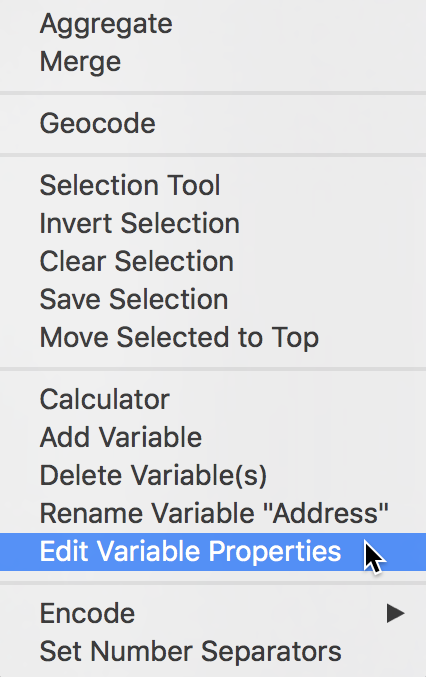
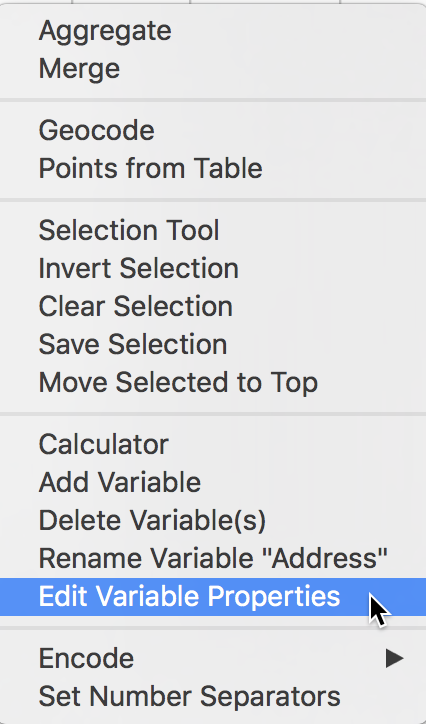
updated merge menu screen shots, added points from table as table option in narrative + screen shot

diff --git a/workbook/1_datascience/lab1.html b/workbook/1_datascience/lab1.html
@@ -613,11 +613,18 @@ Save Toolbar Icon
 <p>So far, we have only dealt with a regular table, without taking advantage of any spatial features. However, the table contains fields with coordinates and GeoDa can turn these into an explicit spatial points layer that can be saved in a range of GIS formats. In the process of illustrating this, we will also tackle some typical data munging issues that result from data entry or other data quality problems. For example, in the current data set, there are two observations that have an entry of <strong>0</strong> for the community area. Since we will be aggregating the points by community area, it is critical that we have that information, or else we need to remove those observations. Luckily, in our case, there is a fairly straightforward solution, taking advantage of GeoDa’s spatial selection feature.</p>
 <div id="creating-a-point-layer-from-coordinates-in-a-table" class="section level3 unnumbered">
 <h3>Creating a point layer from coordinates in a table</h3>
-<p>In GeoDa, it is straightforward to create a GIS point layer from tabular data that contain coordinate information. It is a two step process. After you invoke the function from the main menu, as <strong>Tools &gt; Shape &gt; Points from Table</strong>, a dialog appears to let you specify the X and Y coordinates.</p>
+<p>In GeoDa, it is straightforward to create a GIS point layer from tabular data that contain coordinate information. It is a two step process. After you invoke the function, a dialog appears to let you specify the X and Y coordinates. The <strong>Points from Table</strong> is one of the options in the Table menu.</p>
 <div class="figure" style="text-align: center">
-<img src="pics/7_62_tools_points.png" alt="Points from Table" width="30%" />
+<img src="pics/7_points_from_table.png" alt="Points from Table (Table menu)" width="20%" />
 <p class="caption">
-Points from Table
+Points from Table (Table menu)
+</p>
+</div>
+<p>In addition, it can also be started from the main menu, as <strong>Tools &gt; Shape &gt; Points from Table</strong>.</p>
+<div class="figure" style="text-align: center">
+<img src="pics/7_62_tools_points.png" alt="Points from Table (Tools menu)" width="30%" />
+<p class="caption">
+Points from Table (Tools menu)
 </p>
 </div>
 <p>In our example, the table contains two sets of coordinates, <strong>X</strong> and <strong>Y</strong>, as well as <strong>Longitude</strong> (the horizontal, or x-coordinate) and <strong>Latitude</strong> (the vertical, or y-coordinate). The <strong>X</strong>, <strong>Y</strong> variables are projected, and we will use those to illustrate a potential problem when no metadata on the projection is available.</p>
